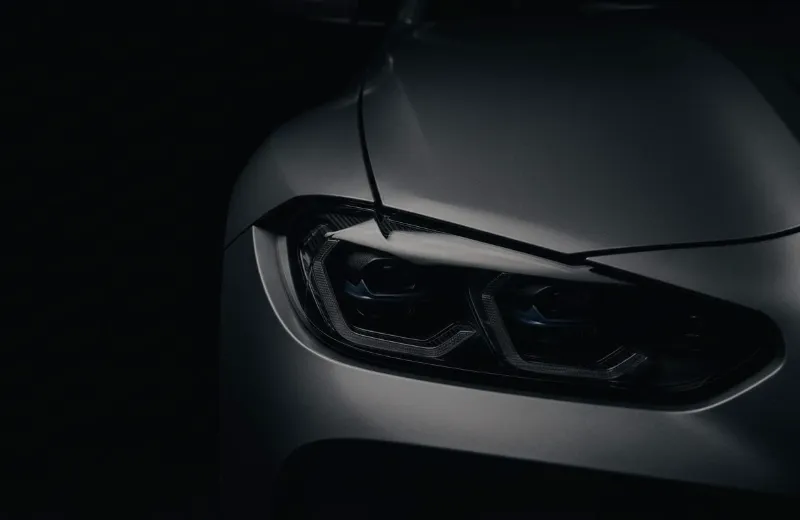
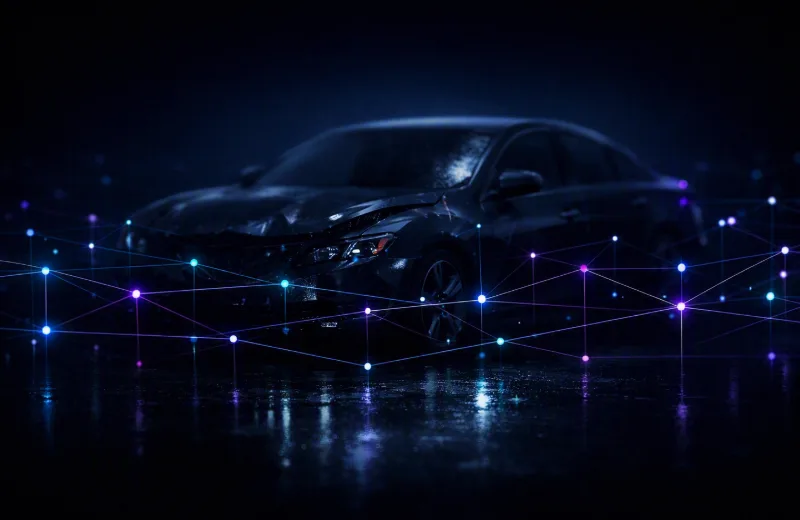
Add files via upload

diff --git a/classic.html b/classic.html
@@ -5707,7 +5707,7 @@
       <button class="modal-close">&times;</button>
     </div>
     <div class="modal-body">
-      <img src="media/parser-thumb.webp" alt="Бот-парсер автомобильных аукционов" />
+      <img src="media/parser-modal.webp" alt="Лот на площадке аукциона Copart" />
 
       <h4>📋 Что это</h4>
       <p>Бот следит за объявлениями вместо человека. Раньше перекупщик открывал

diff --git a/index.html b/index.html
@@ -6178,7 +6178,7 @@
       <button class="modal-close">&times;</button>
     </div>
     <div class="modal-body">
-      <img src="media/parser-thumb.webp" alt="Бот-парсер автомобильных аукционов" />
+      <img src="media/parser-modal.webp" alt="Лот на площадке аукциона Copart" />
 
       <h4>📋 Что это</h4>
       <p>Бот следит за объявлениями вместо человека. Раньше перекупщик открывал
